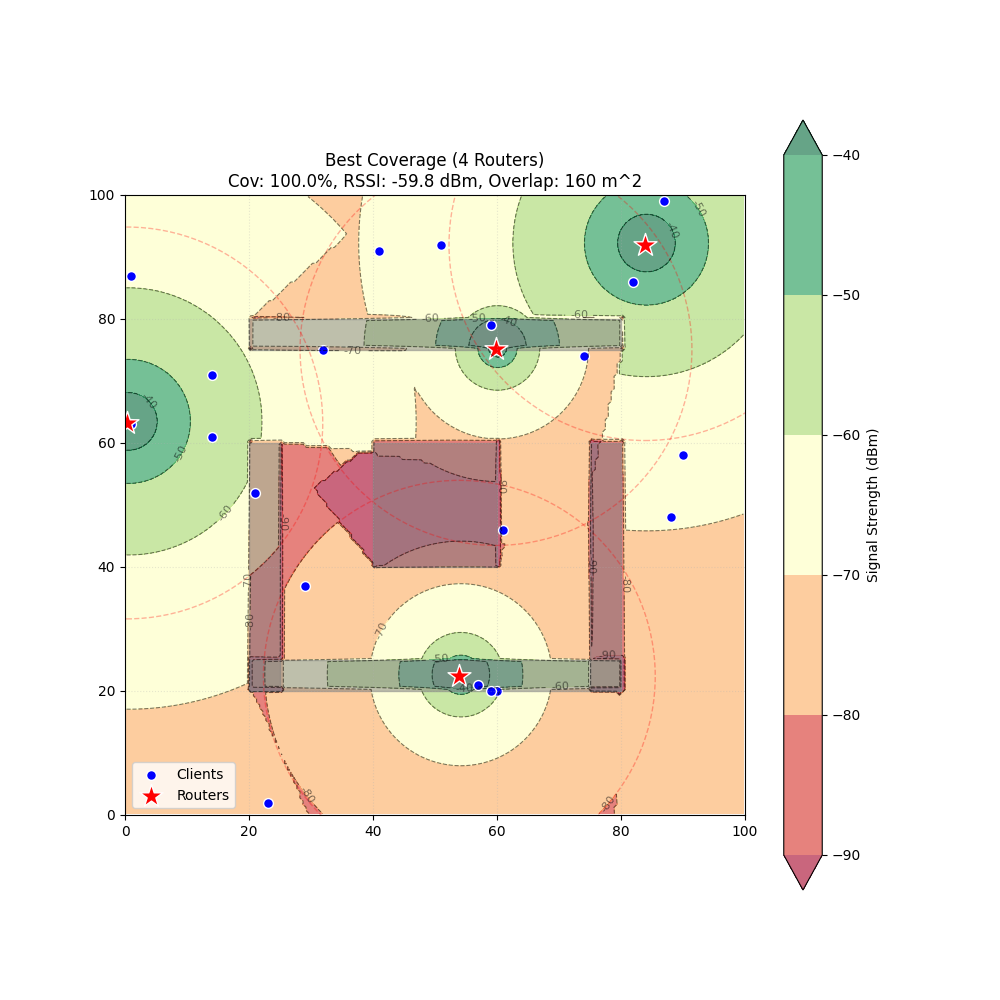
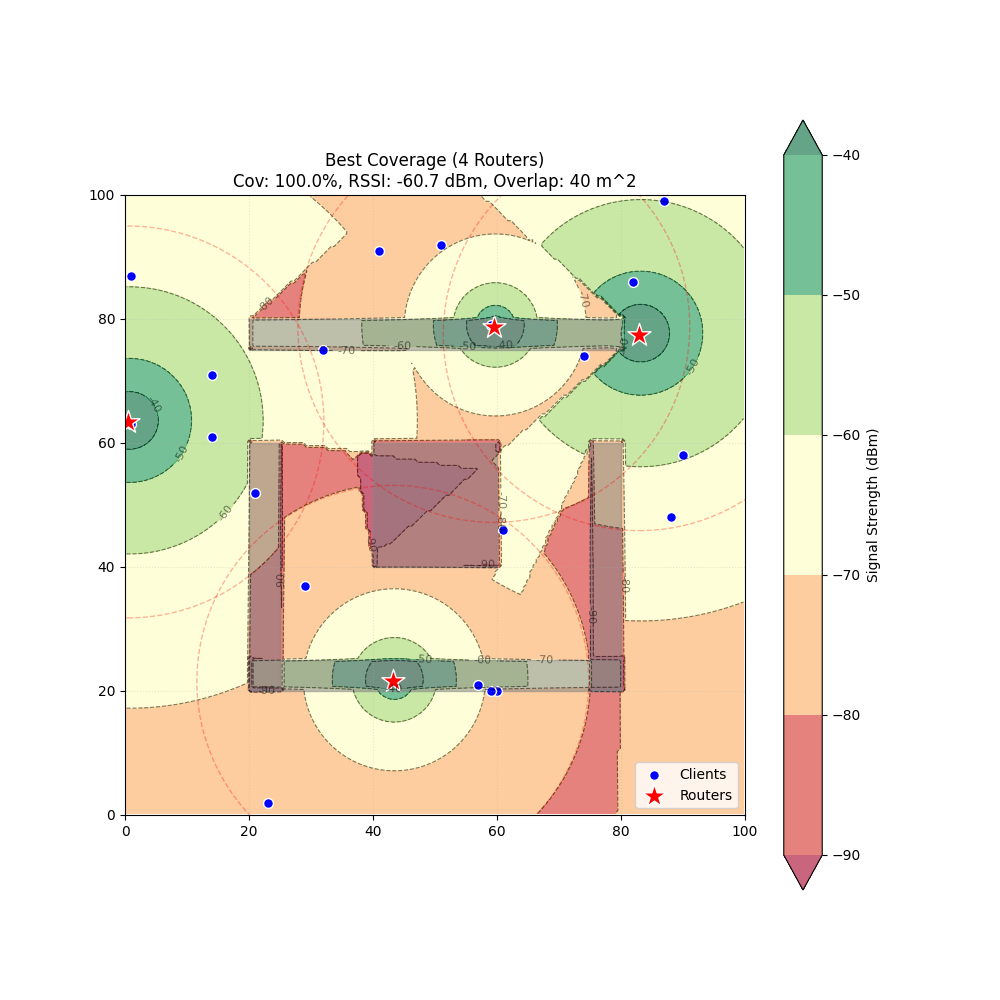
Reomptimization Done

diff --git a/reoptimization/reoptimize_failure.py b/reoptimization/reoptimize_failure.py
@@ -135,16 +135,81 @@ def reoptimize(failed_router_indices, original_routers):
     
     # Show the result plot
     result_img = os.path.join(current_dir, "layout_reopt_coverage.png")
-    print(f"Result image saved to: {result_img}")
-    # try:
-    #     img = plt.imread(result_img)
-    #     plt.figure(figsize=(8,8))
-    #     plt.imshow(img)
-    #     plt.axis('off')
-    #     plt.title("New Optimized Layout")
-    #     plt.show()
-    # except:
-    #     pass
+    # print(f"Result image saved to: {result_img}")
+
+    # --- Plot Comparison ---
+    try:
+        best_cov_ind = rank0_pop[idx_cov]
+        new_routers = best_cov_ind.routes
+        plot_comparison(original_routers, failed_router_indices, new_routers)
+    except Exception as e:
+        print(f"Error plotting comparison: {e}")
+
+def plot_comparison(original_routers, failed_indices, new_routers):
+    """
+    Plots a side-by-side comparison of Before (Failure) vs After (Re-optimization).
+    """
+    original_routers = np.array(original_routers)
+    new_routers = np.array(new_routers)
+    
+    # Create dummy env for background
+    solver = NSGA2Solver()
+    env = solver.env
+    
+    fig, axes = plt.subplots(1, 2, figsize=(16, 8))
+    
+    # --- Subplot 1: Before (with Failures) ---
+    ax = axes[0]
+    ax.set_title("Before: Router Failure")
+    
+    # Background
+    for obs in env.obstacles:
+        x, y, w, h = obs
+        ax.add_patch(plt.Rectangle((x, y), w, h, color='gray', alpha=0.5))
+    ax.scatter(env.clients[:, 0], env.clients[:, 1], c='blue', marker='o', label='Clients')
+    
+    # Plot Routers
+    for i, (rx, ry) in enumerate(original_routers):
+        if i in failed_indices:
+            # FAILED: Black X
+            ax.scatter(rx, ry, c='black', marker='x', s=300, linewidths=3, label='Failed' if i == failed_indices[0] else "")
+            ax.text(rx+2, ry+2, f"R{i+1}(Fail)", fontsize=10, color='black', fontweight='bold')
+        else:
+            # ACTIVE: Red Star
+            ax.scatter(rx, ry, c='red', marker='*', s=200, edgecolors='black', label='Active' if i == 0 else "")
+            ax.text(rx+2, ry+2, f"R{i+1}", fontsize=10, color='darkred')
+            # Range
+            ax.add_patch(plt.Circle((rx, ry), 31.6, color='red', fill=False, linestyle='--', alpha=0.3))
+            
+    ax.set_xlim(0, 100); ax.set_ylim(0, 100); ax.grid(True, linestyle=':', alpha=0.3)
+    ax.legend(loc='upper right')
+
+    # --- Subplot 2: After (Re-optimized) ---
+    ax = axes[1]
+    n_new = len(new_routers)
+    ax.set_title(f"After: Re-optimized ({n_new} Routers)")
+    
+    # Background
+    for obs in env.obstacles:
+        x, y, w, h = obs
+        ax.add_patch(plt.Rectangle((x, y), w, h, color='gray', alpha=0.5))
+    ax.scatter(env.clients[:, 0], env.clients[:, 1], c='blue', marker='o')
+    
+    # Plot New Routers
+    for i, (rx, ry) in enumerate(new_routers):
+        ax.scatter(rx, ry, c='green', marker='*', s=300, edgecolors='black', label='New Router' if i == 0 else "")
+        ax.text(rx+2, ry+2, f"N{i+1}", fontsize=10, color='darkgreen', fontweight='bold')
+        # Range
+        ax.add_patch(plt.Circle((rx, ry), 31.6, color='green', fill=False, linestyle='--', alpha=0.3))
+        
+    ax.set_xlim(0, 100); ax.set_ylim(0, 100); ax.grid(True, linestyle=':', alpha=0.3)
+    ax.legend(loc='upper right')
+    
+    plt.tight_layout()
+    save_path = os.path.join(current_dir, "comparison_reopt.png")
+    plt.savefig(save_path)
+    print(f"Comparison image saved to: {save_path}")
+    plt.show()
 
 def main():
     print("--- Router Failure Recovery System ---")

diff --git a/reoptimization/config.py b/reoptimization/config.py
@@ -19,7 +19,7 @@ MIN_RSSI_OVERLAP = -70.0   # dBm
 
 # NSGA-II Settings
 POPULATION_SIZE = 50
-GENERATIONS = 30
+GENERATIONS = 100
 MUTATION_RATE = 0.1
 ETA_C = 20  # Crossover distribution index
 ETA_M = 20  # Mutation distribution index
